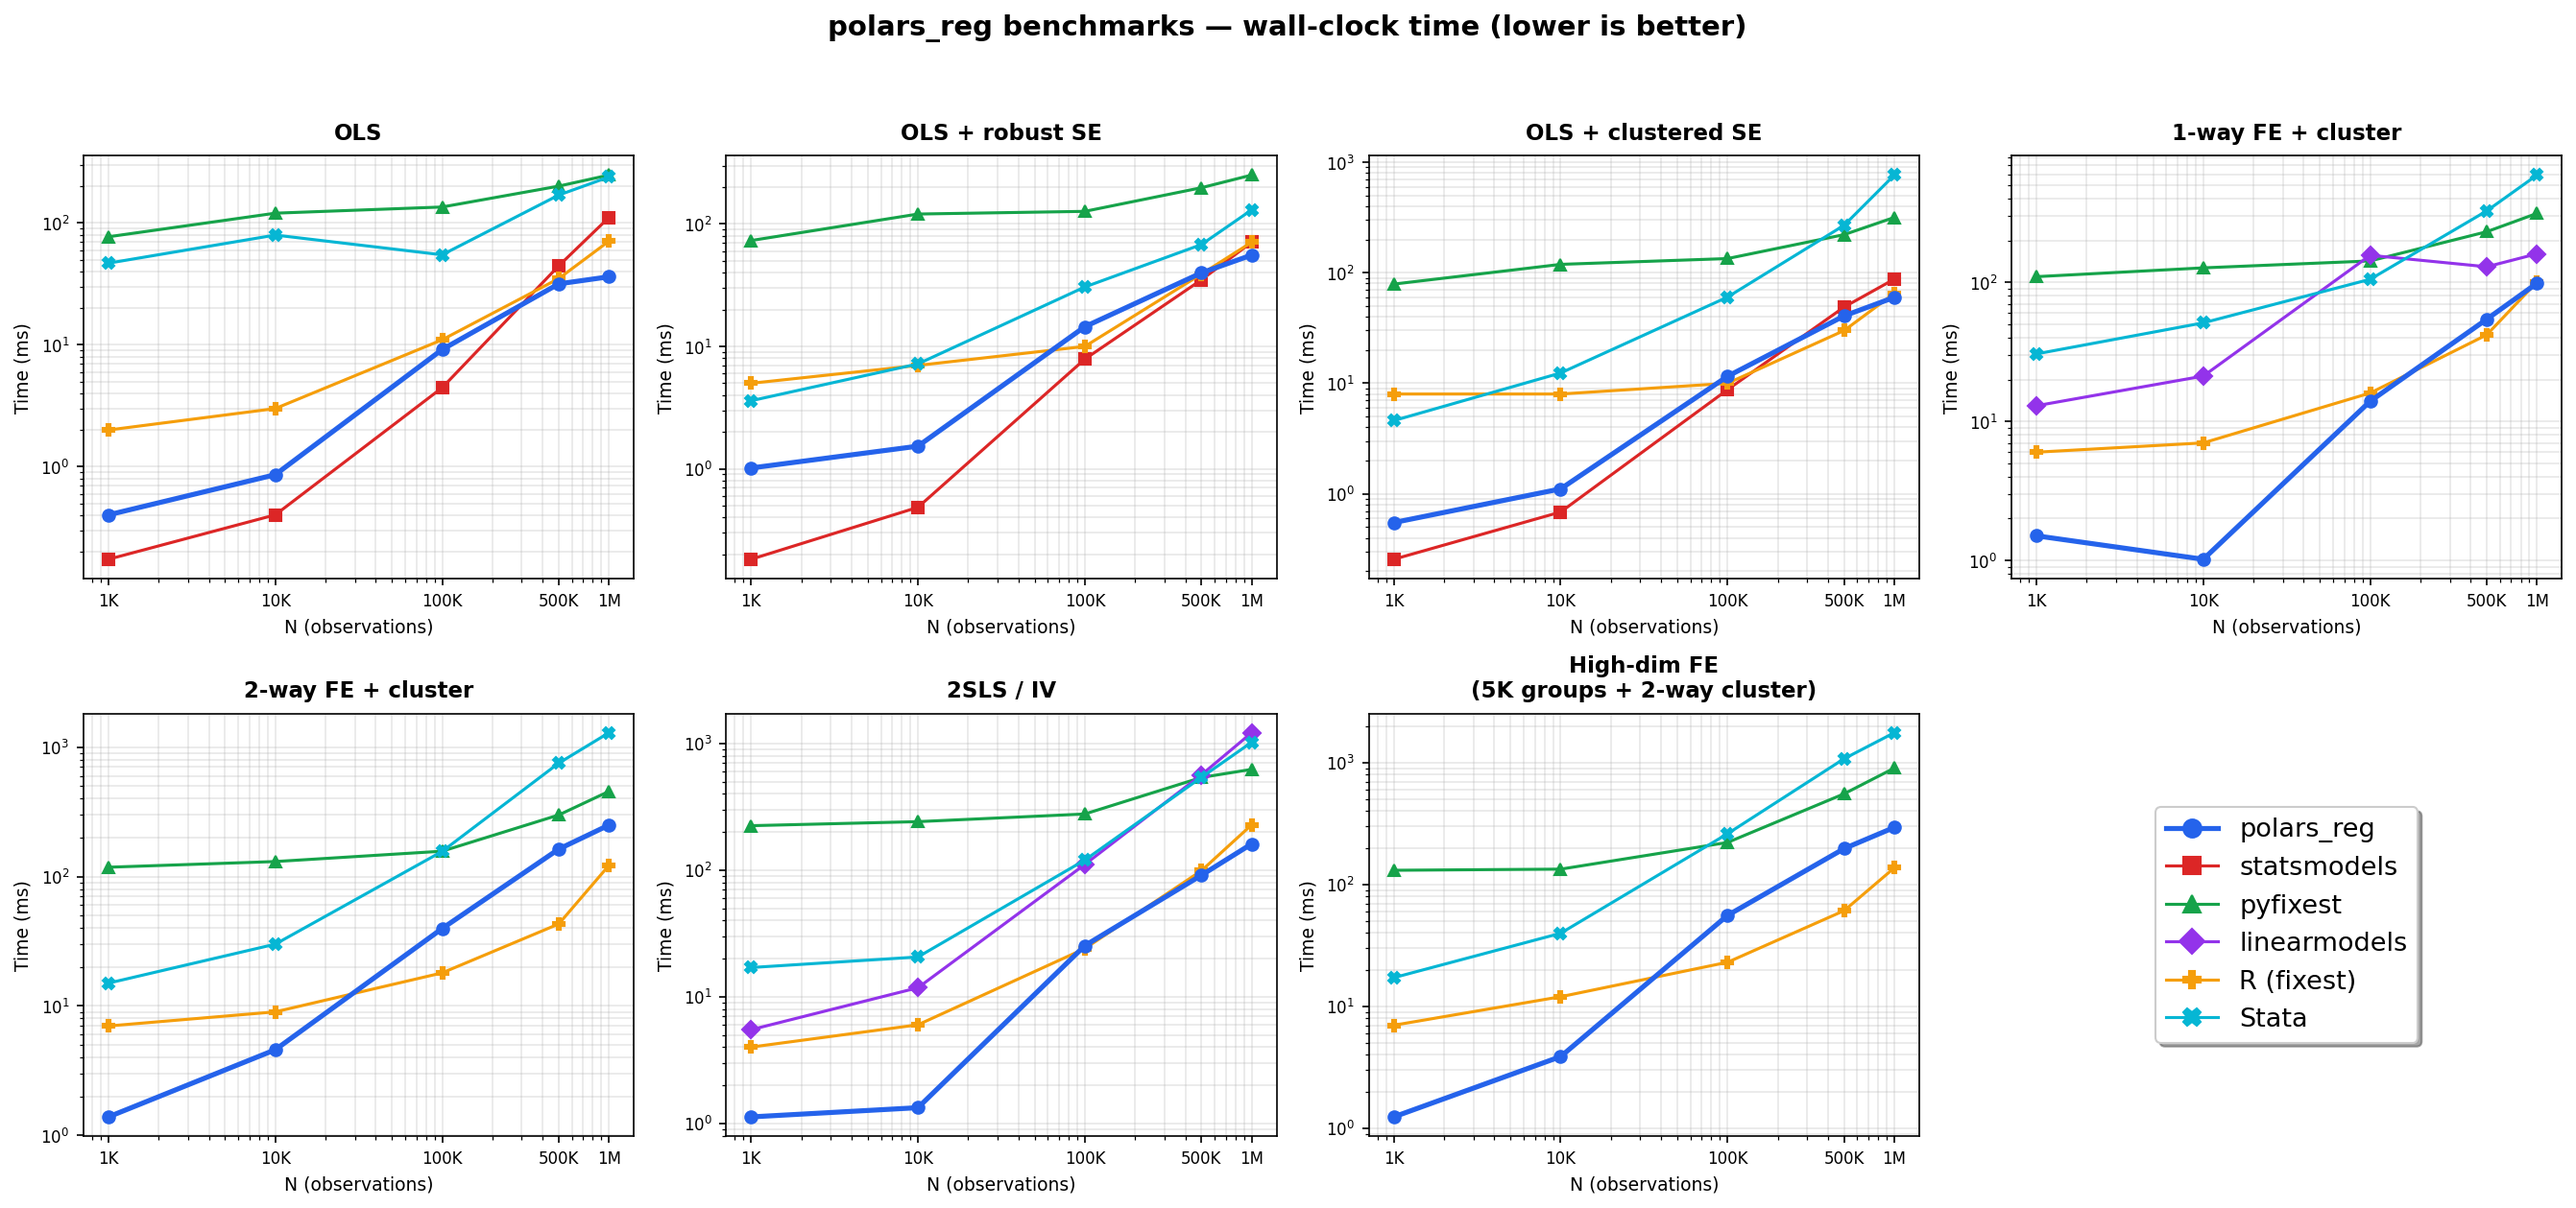
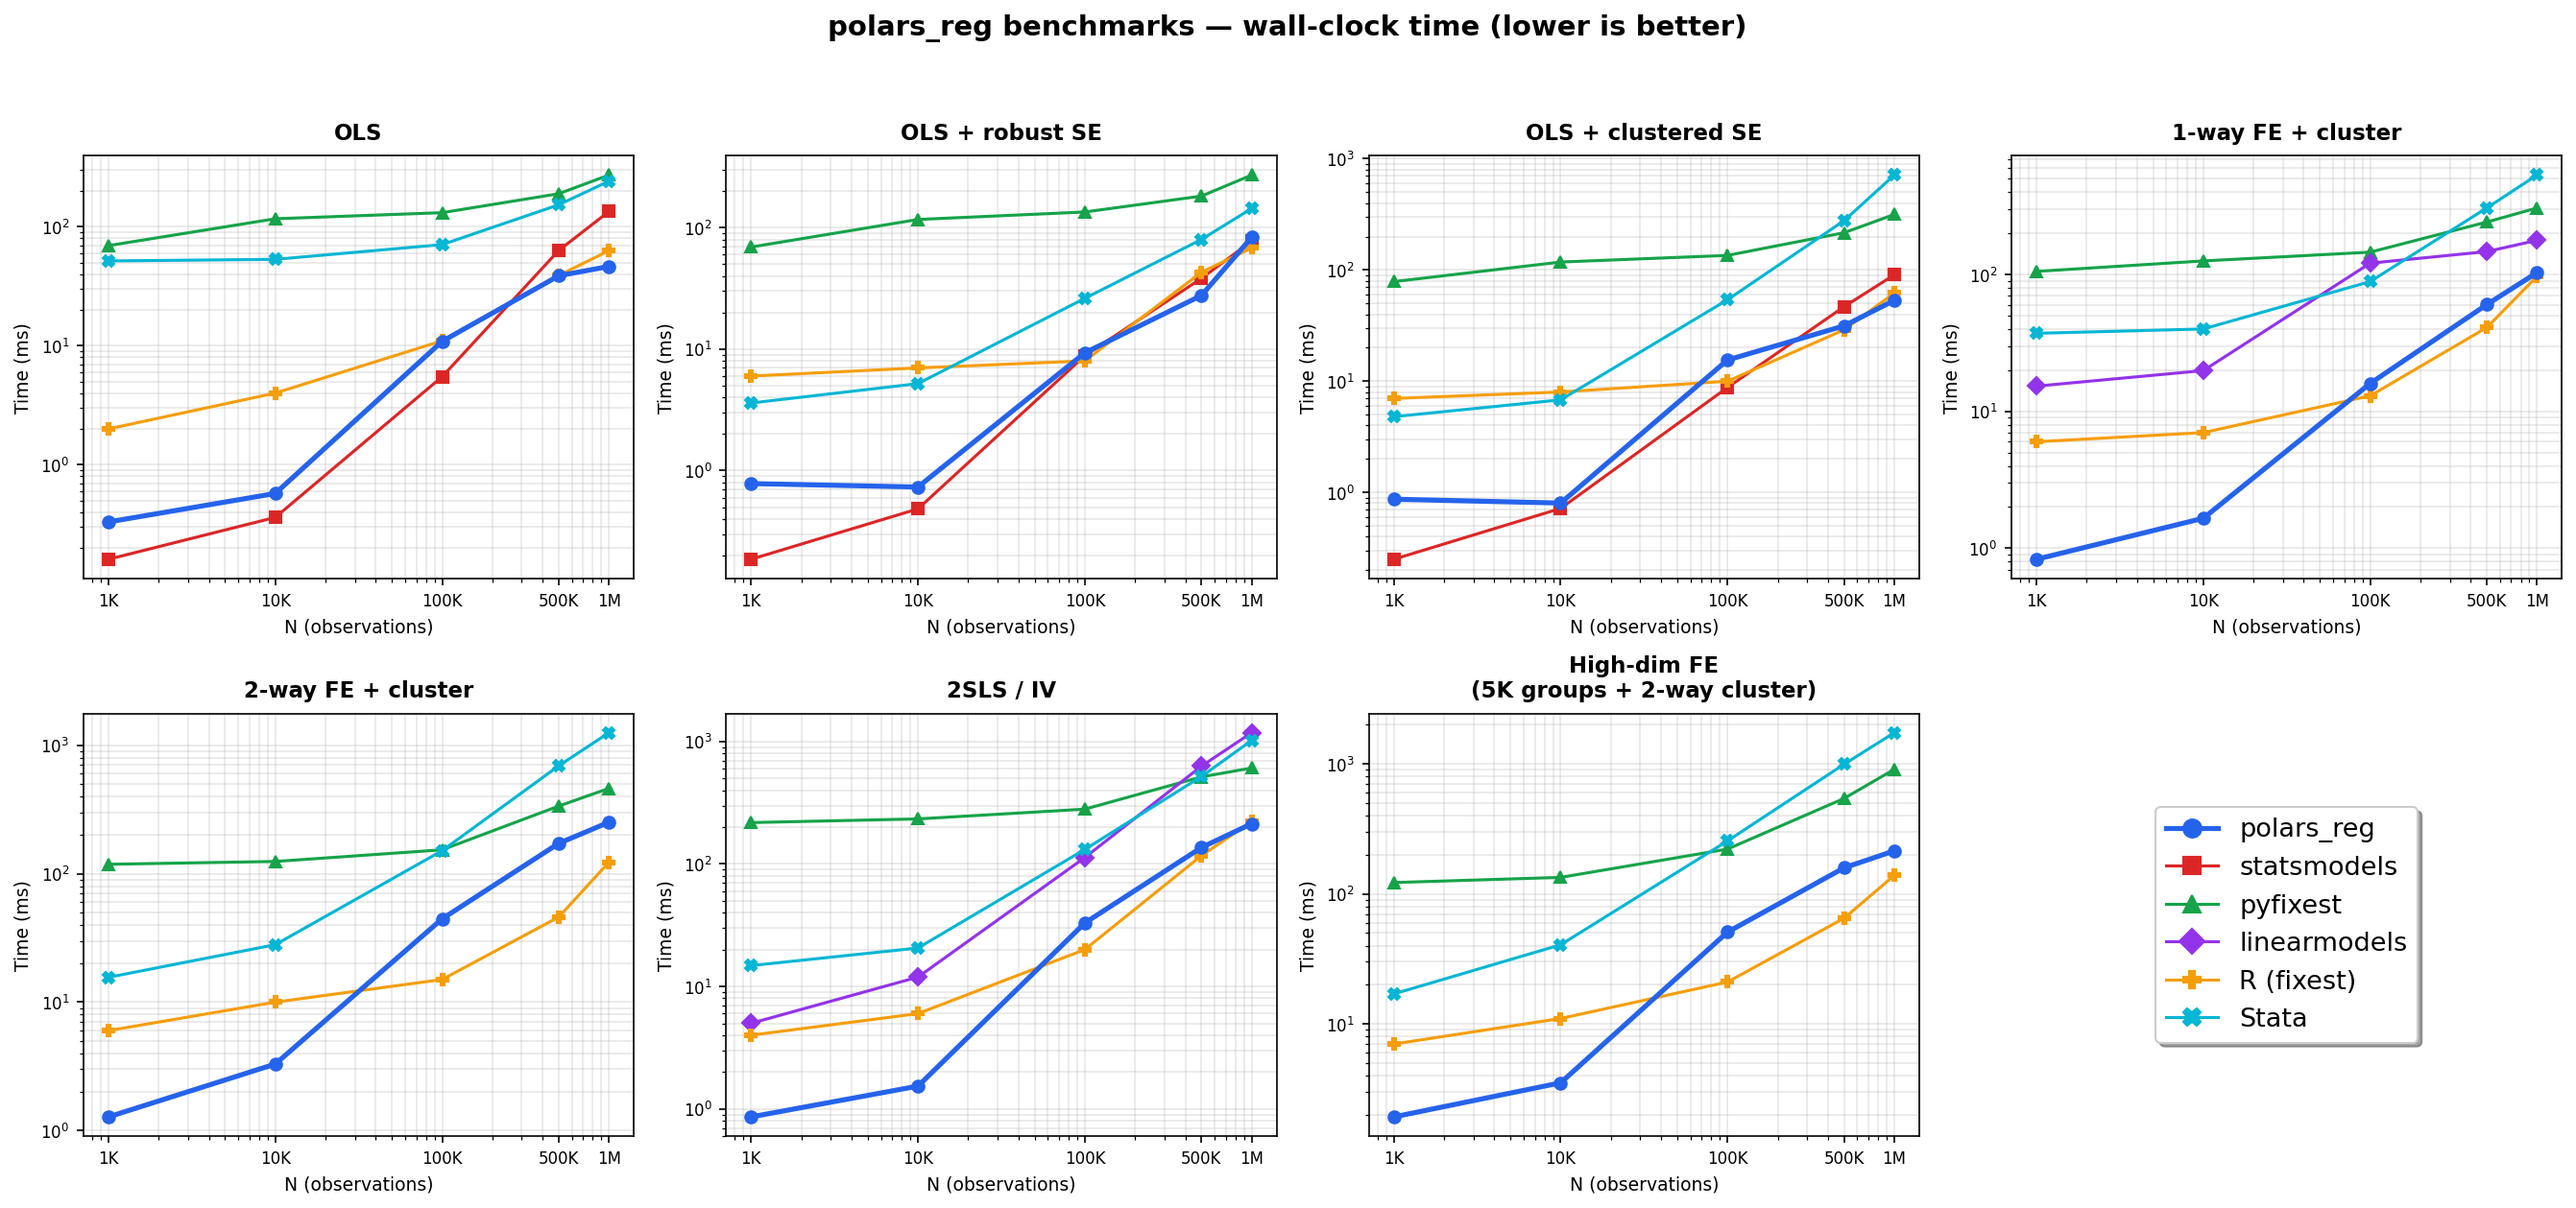
perf: add rayon parallelism to Rust demeaning
- Column-major storage for contiguous column access during demeaning
- rayon par_iter across columns in subtract_group_means
- Sequential fallback for small N (<50K) or single-column cases
- rust_demean at N=1M: 172ms → 112ms (1.5x faster)
- HDFE + 2-way cluster total at N=1M: 345ms → 278ms
- Updated benchmark chart

diff --git a/src/lib.rs b/src/lib.rs
@@ -1,6 +1,7 @@
 use numpy::ndarray::{Array1, Array2};
 use numpy::{IntoPyArray, PyArray1, PyArray2, PyReadonlyArray1, PyReadonlyArray2};
 use pyo3::prelude::*;
+use rayon::prelude::*;
 
 /// Compute group counts (equivalent to np.bincount).
 fn group_counts(codes: &[i32], n_groups: usize) -> Vec<f64> {
@@ -11,46 +12,161 @@ fn group_counts(codes: &[i32], n_groups: usize) -> Vec<f64> {
     counts
 }
 
-/// Subtract group means from each column of x, in-place.
-/// x is n x k, codes is n, denom is G.
-fn subtract_group_means(x: &mut Array2<f64>, codes: &[i32], denom: &[f64]) {
-    let n = x.nrows();
-    let k = x.ncols();
-    let n_groups = denom.len();
+/// Subtract group means from a contiguous column slice, in-place.
+#[inline]
+fn demean_col(col: &mut [f64], codes: &[i32], denom: &[f64], n_groups: usize) {
+    let mut sums = vec![0.0_f64; n_groups];
+    for (i, &c) in codes.iter().enumerate() {
+        sums[c as usize] += col[i];
+    }
+    for (i, &c) in codes.iter().enumerate() {
+        let g = c as usize;
+        col[i] -= sums[g] / denom[g];
+    }
+}
 
-    for j in 0..k {
-        // Sum by group
-        let mut sums = vec![0.0_f64; n_groups];
-        for i in 0..n {
-            sums[codes[i] as usize] += x[[i, j]];
+/// Column-major matrix: data stored as Vec<f64> with n rows and k columns.
+/// Column j spans data[j*n .. (j+1)*n], so each column is a contiguous slice.
+struct ColMajorMatrix {
+    data: Vec<f64>,
+    n: usize,
+    k: usize,
+}
+
+impl ColMajorMatrix {
+    fn from_row_major(x: &Array2<f64>) -> Self {
+        let n = x.nrows();
+        let k = x.ncols();
+        let mut data = vec![0.0_f64; n * k];
+        for j in 0..k {
+            for i in 0..n {
+                data[j * n + i] = x[[i, j]];
+            }
         }
-        // Compute means and subtract
-        for i in 0..n {
-            let g = codes[i] as usize;
-            x[[i, j]] -= sums[g] / denom[g];
+        ColMajorMatrix { data, n, k }
+    }
+
+    fn to_row_major(&self) -> Array2<f64> {
+        let mut x = Array2::<f64>::zeros((self.n, self.k));
+        for j in 0..self.k {
+            for i in 0..self.n {
+                x[[i, j]] = self.data[j * self.n + i];
+            }
         }
+        x
+    }
+
+    fn col_mut(&mut self, j: usize) -> &mut [f64] {
+        &mut self.data[j * self.n..(j + 1) * self.n]
+    }
+
+    /// Get mutable slices to all columns simultaneously (safe because they don't overlap).
+    fn cols_mut(&mut self) -> Vec<&mut [f64]> {
+        let n = self.n;
+        let k = self.k;
+        let ptr = self.data.as_mut_ptr();
+        // SAFETY: each column slice is non-overlapping (j*n..(j+1)*n)
+        (0..k)
+            .map(|j| unsafe { std::slice::from_raw_parts_mut(ptr.add(j * n), n) })
+            .collect()
+    }
+
+    /// Sum of squares of all elements.
+    fn sum_sq(&self) -> f64 {
+        self.data.iter().map(|v| v * v).sum()
+    }
+
+    /// Dot product with another ColMajorMatrix.
+    fn dot(&self, other: &ColMajorMatrix) -> f64 {
+        self.data
+            .iter()
+            .zip(other.data.iter())
+            .map(|(a, b)| a * b)
+            .sum()
+    }
+
+    /// self += alpha * other
+    fn scaled_add(&mut self, alpha: f64, other: &ColMajorMatrix) {
+        for (a, b) in self.data.iter_mut().zip(other.data.iter()) {
+            *a += alpha * b;
+        }
+    }
+
+    /// self = other + beta * self
+    fn update_from(&mut self, other: &ColMajorMatrix, beta: f64) {
+        for (a, b) in self.data.iter_mut().zip(other.data.iter()) {
+            *a = *b + beta * *a;
+        }
+    }
+
+    fn assign_from(&mut self, other: &ColMajorMatrix) {
+        self.data.copy_from_slice(&other.data);
+    }
+
+    fn clone_cm(&self) -> ColMajorMatrix {
+        ColMajorMatrix {
+            data: self.data.clone(),
+            n: self.n,
+            k: self.k,
+        }
+    }
+
+    fn sub(&self, other: &ColMajorMatrix) -> ColMajorMatrix {
+        let data: Vec<f64> = self
+            .data
+            .iter()
+            .zip(other.data.iter())
+            .map(|(a, b)| a - b)
+            .collect();
+        ColMajorMatrix {
+            data,
+            n: self.n,
+            k: self.k,
+        }
+    }
+}
+
+/// Subtract group means for all columns, parallelized across columns.
+fn subtract_group_means_par(cm: &mut ColMajorMatrix, codes: &[i32], denom: &[f64]) {
+    let n_groups = denom.len();
+    let cols = cm.cols_mut();
+    cols.into_par_iter().for_each(|col| {
+        demean_col(col, codes, denom, n_groups);
+    });
+}
+
+/// Subtract group means for all columns, sequential.
+fn subtract_group_means_seq(cm: &mut ColMajorMatrix, codes: &[i32], denom: &[f64]) {
+    let n_groups = denom.len();
+    for j in 0..cm.k {
+        demean_col(cm.col_mut(j), codes, denom, n_groups);
     }
 }
 
 /// One symmetric Kaczmarz sweep: forward then backward through FE dimensions.
 fn symmetric_kaczmarz(
-    x: &mut Array2<f64>,
+    cm: &mut ColMajorMatrix,
     fe_list: &[Vec<i32>],
     denoms: &[Vec<f64>],
+    par: bool,
 ) {
     let d = fe_list.len();
+    let demean_fn = if par {
+        subtract_group_means_par
+    } else {
+        subtract_group_means_seq
+    };
     // Forward
     for dim in 0..d {
-        subtract_group_means(x, &fe_list[dim], &denoms[dim]);
+        demean_fn(cm, &fe_list[dim], &denoms[dim]);
     }
     // Backward (skip last)
     for dim in (0..d - 1).rev() {
-        subtract_group_means(x, &fe_list[dim], &denoms[dim]);
+        demean_fn(cm, &fe_list[dim], &denoms[dim]);
     }
 }
 
 /// CG-accelerated demeaning with symmetric Kaczmarz.
-/// Returns demeaned array.
 fn demean_cg(
     x_in: &Array2<f64>,
     fe_list: &[Vec<i32>],
@@ -58,6 +174,11 @@ fn demean_cg(
     tol: f64,
     max_iter: usize,
 ) -> Array2<f64> {
+    let n = x_in.nrows();
+    let k = x_in.ncols();
+    // Parallelize when N is large enough AND k > 1
+    let par = n >= 50_000 && k > 1;
+
     // Precompute group counts
     let denoms: Vec<Vec<f64>> = fe_list
         .iter()
@@ -65,27 +186,28 @@ fn demean_cg(
         .map(|(codes, &ng)| group_counts(codes, ng))
         .collect();
 
-    let mut x = x_in.clone();
-    let mut tmp = x.clone();
+    // Convert to column-major for contiguous column access
+    let mut x = ColMajorMatrix::from_row_major(x_in);
+    let mut tmp = x.clone_cm();
 
     // Initial residual: r = T(x) - x
-    symmetric_kaczmarz(&mut tmp, fe_list, &denoms);
-    let mut r = &tmp - &x;
-    let mut u = r.clone();
-    let mut ssr: f64 = r.iter().map(|v| v * v).sum();
+    symmetric_kaczmarz(&mut tmp, fe_list, &denoms, par);
+    let mut r = tmp.sub(&x);
+    let mut u = r.clone_cm();
+    let mut ssr: f64 = r.sum_sq();
 
     for _ in 0..max_iter {
-        let x_norm: f64 = x.iter().map(|v| v * v).sum();
+        let x_norm: f64 = x.sum_sq();
         if ssr < tol * tol * x_norm.max(1e-16) {
             break;
         }
 
         // v = u - T(u)
-        tmp.assign(&u);
-        symmetric_kaczmarz(&mut tmp, fe_list, &denoms);
-        let v = &u - &tmp;
+        tmp.assign_from(&u);
+        symmetric_kaczmarz(&mut tmp, fe_list, &denoms, par);
+        let v = u.sub(&tmp);
 
-        let uv: f64 = u.iter().zip(v.iter()).map(|(a, b)| a * b).sum();
+        let uv: f64 = u.dot(&v);
         if uv.abs() < 1e-30 {
             break;
         }
@@ -94,24 +216,34 @@ fn demean_cg(
         x.scaled_add(alpha, &u);
         r.scaled_add(-alpha, &v);
 
-        let ssr_new: f64 = r.iter().map(|v| v * v).sum();
+        let ssr_new: f64 = r.sum_sq();
         let beta = ssr_new / ssr;
 
-        // u = r + beta * u
-        u.mapv_inplace(|ui| ui * beta);
-        u += &r;
+        u.update_from(&r, beta);
         ssr = ssr_new;
     }
 
-    x
+    x.to_row_major()
+}
+
+/// Subtract group means from each column of an Array2, in-place (single FE path).
+fn subtract_group_means_array(x: &mut Array2<f64>, codes: &[i32], denom: &[f64]) {
+    let n = x.nrows();
+    let k = x.ncols();
+    let n_groups = denom.len();
+    for j in 0..k {
+        let mut sums = vec![0.0_f64; n_groups];
+        for i in 0..n {
+            sums[codes[i] as usize] += x[[i, j]];
+        }
+        for i in 0..n {
+            let g = codes[i] as usize;
+            x[[i, j]] -= sums[g] / denom[g];
+        }
+    }
 }
 
 /// Full demean function callable from Python.
-/// X: n x k array
-/// fe_codes_list: list of 1D int32 arrays (FE group codes)
-/// n_groups_list: list of group counts per FE dimension
-/// tol: convergence tolerance
-/// max_iter: max iterations
 #[pyfunction]
 fn rust_demean<'py>(
     py: Python<'py>,
@@ -131,10 +263,10 @@ fn rust_demean<'py>(
     let n_fe = fe_list.len();
 
     if n_fe == 1 {
-        // Single FE: exact in one pass
+        // Single FE: exact in one pass, no need for CG or col-major
         let mut result = x_arr;
         let denom = group_counts(&fe_list[0], n_groups_list[0]);
-        subtract_group_means(&mut result, &fe_list[0], &denom);
+        subtract_group_means_array(&mut result, &fe_list[0], &denom);
         result.into_pyarray(py)
     } else {
         let result = demean_cg(&x_arr, &fe_list, &n_groups_list, tol, max_iter);
